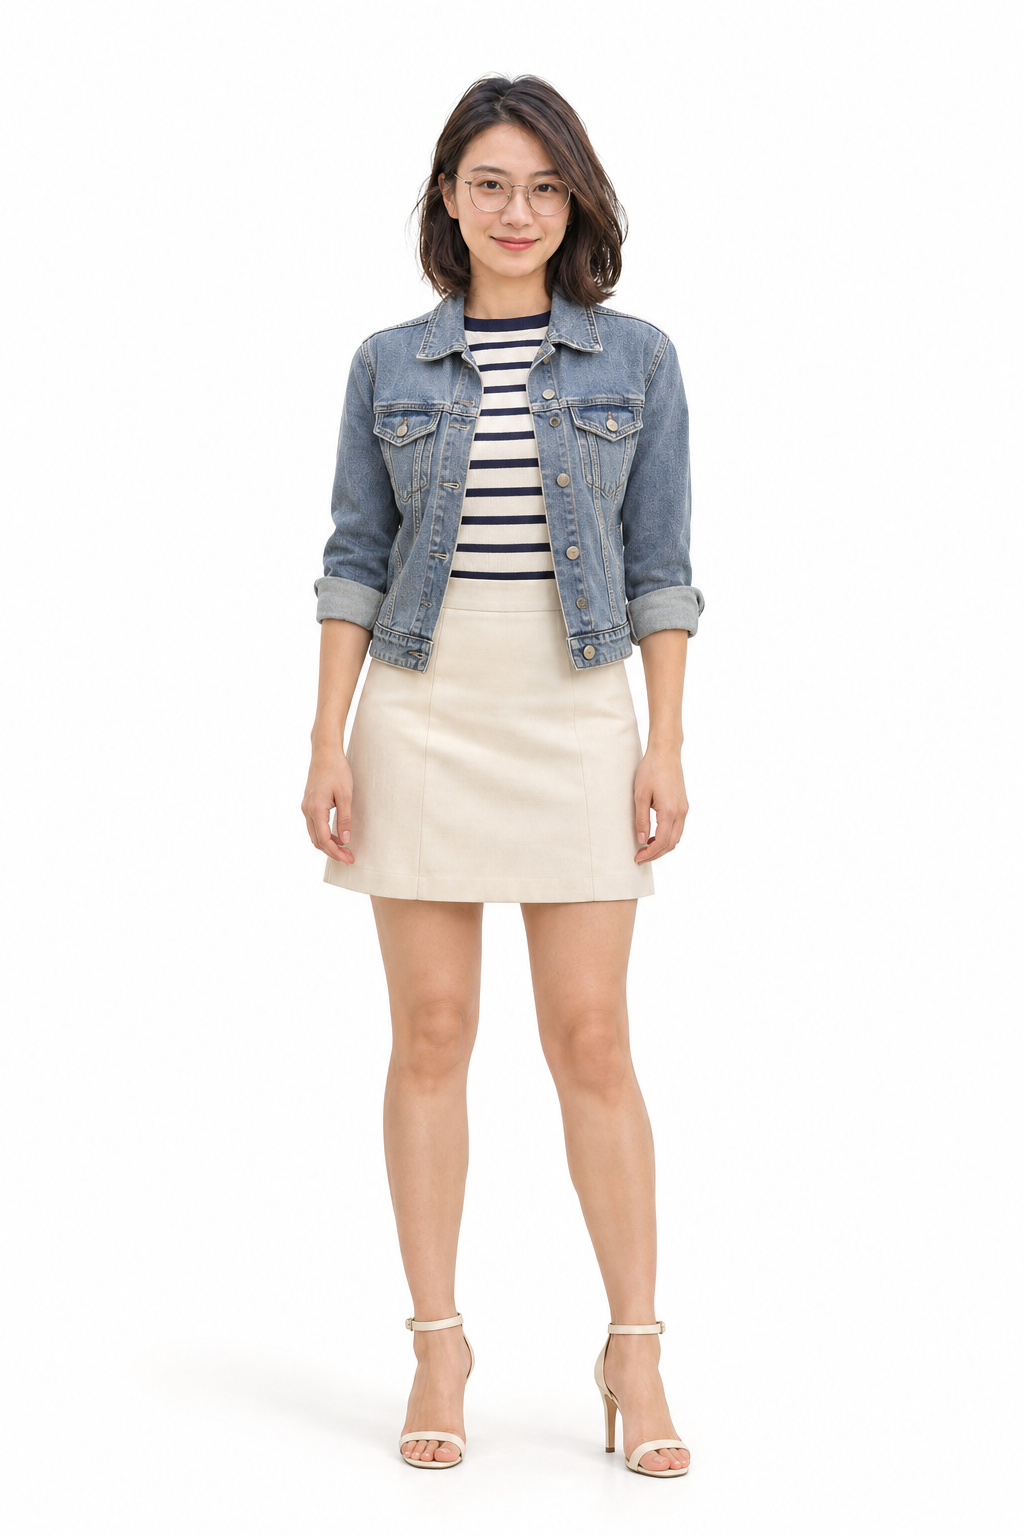
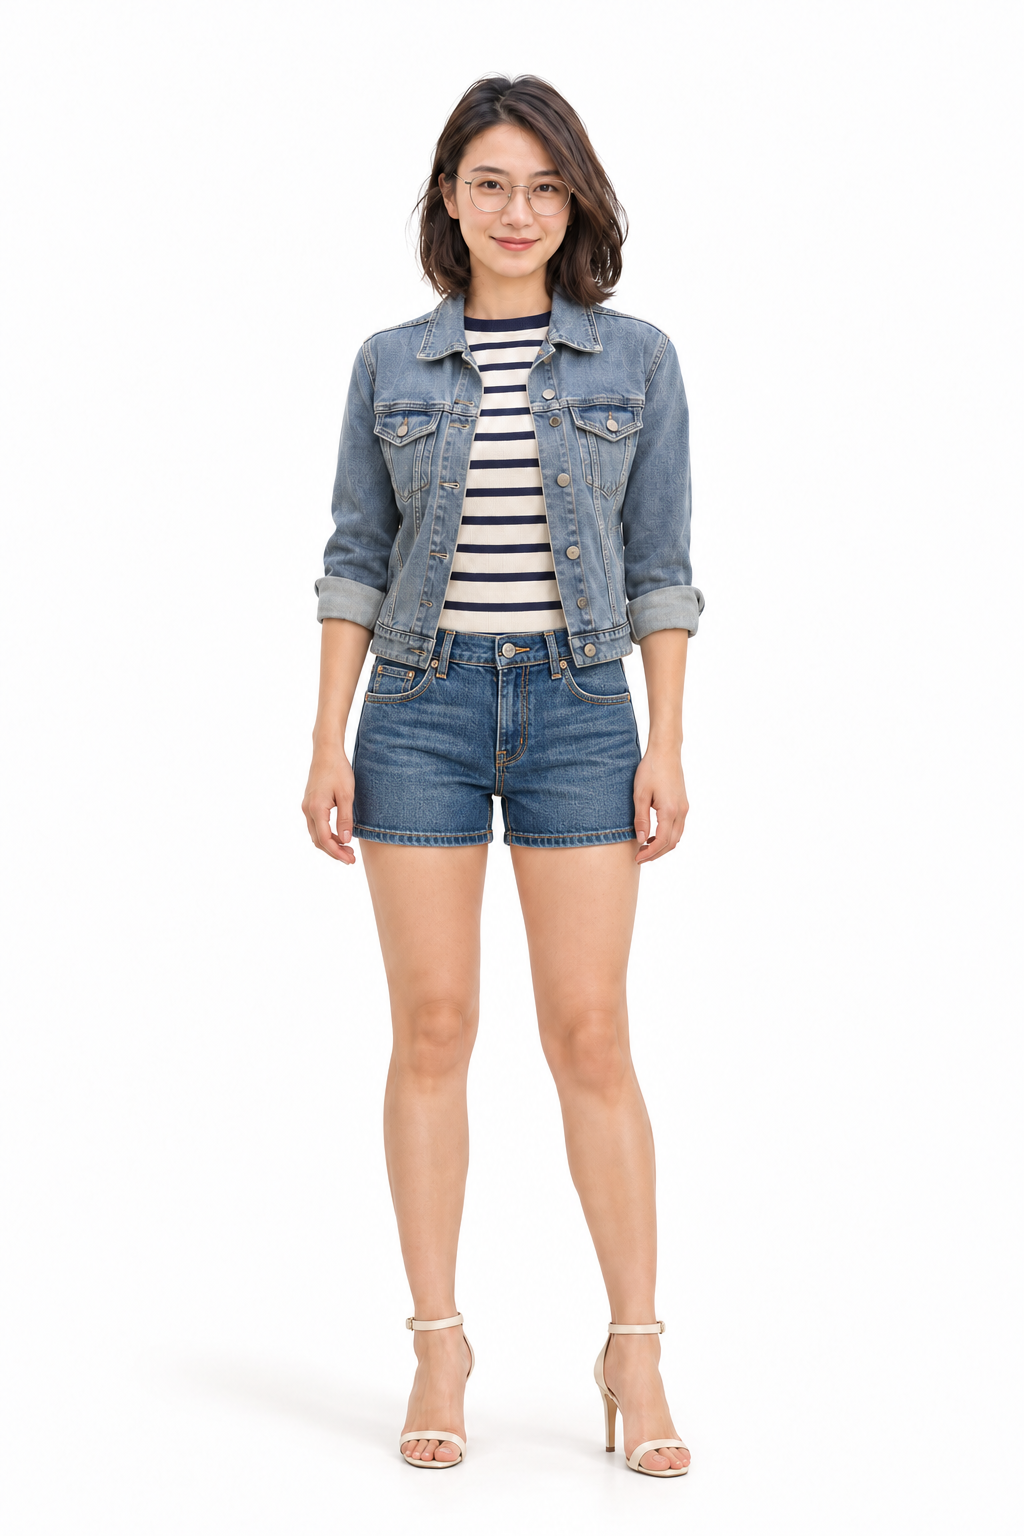
Update portrait 22 crop top and flats, 29 denim shorts, and 19 black maxi skirt

diff --git a/assets/fullbody/README.md b/assets/fullbody/README.md
@@ -4,10 +4,10 @@
 
 ## 配置
 
-- 裙裝／連身裙裝：47 人（73.4%）；褲裝：17 人（26.6%），已依後續指定更新。
-- 裙裝中膝上：42 人（89.4%）；其餘 5 人為及膝以下。
-- 有跟鞋：55 人（85.9%）；帆布鞋／運動鞋：6 人（06、08、13、24、27、40）；其他平底鞋：3 人（04、05、09），依後續指定更新。
-- 01～32 中短版露腰上衣：8 人（25%），編號 01、03、05、07、09、11、15、30。
+- 裙裝／連身裙裝：46 人（71.9%）；褲裝：18 人（28.1%），已依後續指定更新。
+- 裙裝中膝上：40 人（87.0%）；其餘 6 人為及膝以下。
+- 有跟鞋：54 人（84.4%）；帆布鞋／運動鞋：6 人（06、08、13、24、27、40）；其他平底鞋：4 人（04、05、09、22），依後續指定更新。
+- 01～32 中短版露腰上衣：9 人（28.1%），編號 01、03、05、07、09、11、15、22、30。
 
 各圖為 AI 延伸創作，保留參考人物特徵，但並非真實人物攝影，也不保證臉部像素完全相同。服裝及對應資料見 [manifest.json](manifest.json)。
 
@@ -33,17 +33,17 @@
 | avatar-16 | ![頭像](../avatars/avatar-16.webp) | [查看全身照](avatar-16.png) | 褲裝 | 有跟鞋 |
 | avatar-17 | ![頭像](../avatars/avatar-17.webp) | [查看全身照](avatar-17.png) | 裙裝・膝上 | 有跟鞋 |
 | avatar-18 | ![頭像](../avatars/avatar-18.webp) | [查看全身照](avatar-18.png) | 連身裙裝・膝上 | 有跟鞋 |
-| avatar-19 | ![頭像](../avatars/avatar-19.webp) | [查看全身照](avatar-19.png) | 裙裝・膝上 | 有跟鞋 |
+| avatar-19 | ![頭像](../avatars/avatar-19.webp) | [查看全身照](avatar-19.png) | 裙裝・及膝以下 | 有跟鞋 |
 | avatar-20 | ![頭像](../avatars/avatar-20.webp) | [查看全身照](avatar-20.png) | 褲裝 | 有跟鞋 |
 | avatar-21 | ![頭像](../avatars/avatar-21.webp) | [查看全身照](avatar-21.png) | 連身裙裝・膝上 | 有跟鞋 |
-| avatar-22 | ![頭像](../avatars/avatar-22.webp) | [查看全身照](avatar-22.png) | 裙裝・膝上 | 有跟鞋 |
+| avatar-22 | ![頭像](../avatars/avatar-22.webp) | [查看全身照](avatar-22.png) | 裙裝・膝上・短版露腰 | 平底鞋 |
 | avatar-23 | ![頭像](../avatars/avatar-23.webp) | [查看全身照](avatar-23.png) | 裙裝・膝上 | 有跟鞋 |
 | avatar-24 | ![頭像](../avatars/avatar-24.webp) | [查看全身照](avatar-24.png) | 褲裝 | 運動鞋 |
 | avatar-25 | ![頭像](../avatars/avatar-25.webp) | [查看全身照](avatar-25.png) | 裙裝・膝上 | 有跟鞋 |
 | avatar-26 | ![頭像](../avatars/avatar-26.webp) | [查看全身照](avatar-26.png) | 裙裝・膝上 | 有跟鞋 |
 | avatar-27 | ![頭像](../avatars/avatar-27.webp) | [查看全身照](avatar-27.png) | 褲裝・運動短褲 | 運動鞋 |
 | avatar-28 | ![頭像](../avatars/avatar-28.webp) | [查看全身照](avatar-28.png) | 褲裝 | 有跟鞋 |
-| avatar-29 | ![頭像](../avatars/avatar-29.webp) | [查看全身照](avatar-29.png) | 裙裝・膝上 | 有跟鞋 |
+| avatar-29 | ![頭像](../avatars/avatar-29.webp) | [查看全身照](avatar-29.png) | 褲裝・牛仔短褲 | 有跟鞋 |
 | avatar-30 | ![頭像](../avatars/avatar-30.webp) | [查看全身照](avatar-30.png) | 裙裝・膝上・短版露腰 | 有跟鞋 |
 | avatar-31 | ![頭像](../avatars/avatar-31.webp) | [查看全身照](avatar-31.png) | 裙裝・膝上 | 有跟鞋 |
 | avatar-32 | ![頭像](../avatars/avatar-32.webp) | [查看全身照](avatar-32.png) | 褲裝 | 有跟鞋 |
@@ -93,3 +93,5 @@
 最新調整：56 為較高挑頭身比例與較豐滿胸型；30 改為短版露腰襯衫搭配膝上裙；27 改為珊瑚橘運動上衣、深藍運動短褲與運動鞋。原頭像不變。
 
 最新調整：13 改完整白襯衫與針織背心學院風、不露腰，搭帆布鞋；09 改平底鞋；11、19、25 胸型稍豐滿，19 改貼身細針織毛衣。原頭像不變。
+
+最新調整：22 改短版上衣與平底鞋；29 改牛仔短褲；19 改黑色長裙。原頭像不變。
